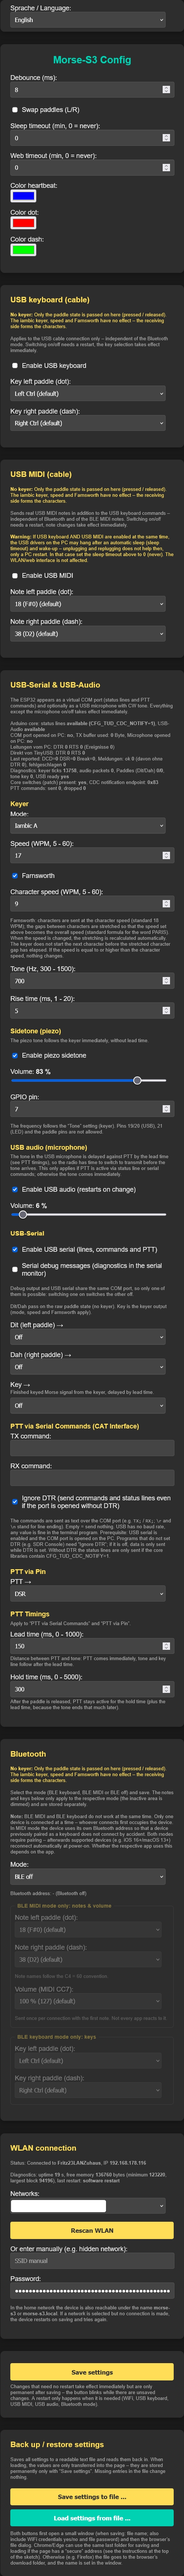
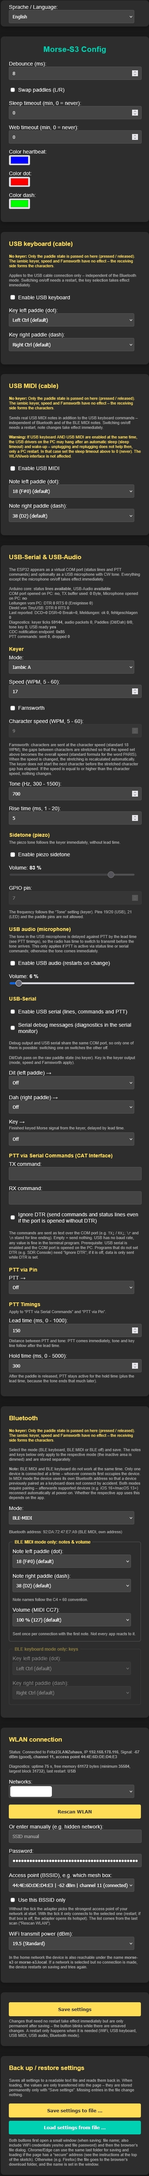
Testet with ESP32 V3.3.13 Core. „WLAN signal strength, BSSID selection and transmit power; remove core patch fallback; require core 3.3.13“.

Changed region(s): [[0.0593, 0.0, 0.9481, 0.9961], [0.8889, 0.0311, 0.9185, 0.0934]]

diff --git a/docs/AdapterConfiguration.md b/docs/AdapterConfiguration.md
@@ -17,6 +17,11 @@ As a first step it's a good idea to connect the adapter to your home network. Th
 
 Afterwards the adapter can also be reached in your home network via http://morse-s3.local or via the IP address assigned by your router. If the home network cannot be reached, the adapter opens its own hotspot again.
 
+**Signal strength, access point and transmit power:** In the "WLAN connection" box the status line shows the current signal strength (RSSI in dBm, updated every 5 seconds), the channel and the access point (BSSID) the adapter is connected to. As a rule of thumb: better than -70 dBm is fine, around -80 dBm is weak and leads to slow or incomplete pages and dropped connections. If the signal is weak, move the adapter (antenna side free, away from the PC and USB 3 ports, ideally in the same room as a router).
+
+* **Several routers (mesh, e.g. FRITZ!Boxes):** All boxes share one network name, so an adapter may stay connected to a distant box. At start the adapter therefore picks the access point with the **strongest signal**. In the box you also find a drop-down list **"Access Point (BSSID)"** with all access points of your network found in the last scan (BSSID, signal, channel; the connected one is marked). Select one and tick **"Use this BSSID only"** to make the adapter connect to that one only. The change is applied with the restart. If the selected box is switched off, the adapter cannot connect and opens its own hotspot, so you can untick the box again. The list is filled by the scan at start or by "Rescan WLAN". The BSSID is the WLAN address of the box; you can look it up in your router's web page (FRITZ!Box: Home Network > Network > Network Connections, details of the box).
+* **WiFi transmit power:** At the end of the box. Default is 19.5 dBm (the standard of the Espressif core), the maximum is 20 dBm. The change takes effect immediately and is stored with "Save settings". A lower value can help if the adapter is very close to the router or its power supply is weak.
+
 ## Not all USB functions at the same time
 The USB interface of the ESP32-S3 has only a **limited number of endpoints** (4 usable "IN" endpoints). Every USB function needs one of them:
 
@@ -72,7 +77,7 @@ The adapter then sends real MIDI notes (in addition to the USB keyboard commands
 
 This part of the page allows a morse paddle to be connected directly to a software TRX like SDR-Console (Simon Brown). The adapter contains its own keyer that creates a morse tone, sends it to the PC as a microphone signal and switches PTT (transmit) at the right moment.
 
-The page shows a status block at the top of this section (does the core support the status lines, is the COM port opened on the PC, DTR/RTS state, number of sent messages ...). It helps if something does not work.
+The page shows a status block at the top of this section (are the status lines being sent, is the COM port opened on the PC, DTR/RTS state, number of sent messages ...). It helps if something does not work.
 
 ### Keyer
 The keyer turns the paddle contacts into correct morse characters. It is used for the USB microphone tone, the piezo sidetone and the "Key" status line.

diff --git a/README.md b/README.md
@@ -15,3 +15,8 @@ My Windows app '[PaddleBridge](https://github.com/RaspCla/PaddleBridge)' is an a
 More details can be found in the header of the ino-file and in the docs folder.
 
 Take care to order the correct ESP32-S3 Mini board (e.g. Heemol ESP32-S3 Mini, 18 pins).
+
+## Requirements
+The sketch needs the **ESP32 Arduino core 3.3.13** from Espressif (released on 17 November 2026) or newer. Install it via the Arduino Boards Manager ("esp32" by Espressif Systems). The USB-Audio interface (morse tone as microphone) and the USB-Serial status pins (DCD/DSR for PTT) depend on it; the sketch uses only the official core interfaces, no patched libraries are required. With an older core the sketch stops with an error message when compiling.
+
+Details (board settings, libraries) can be found in the header of the ino-file.
